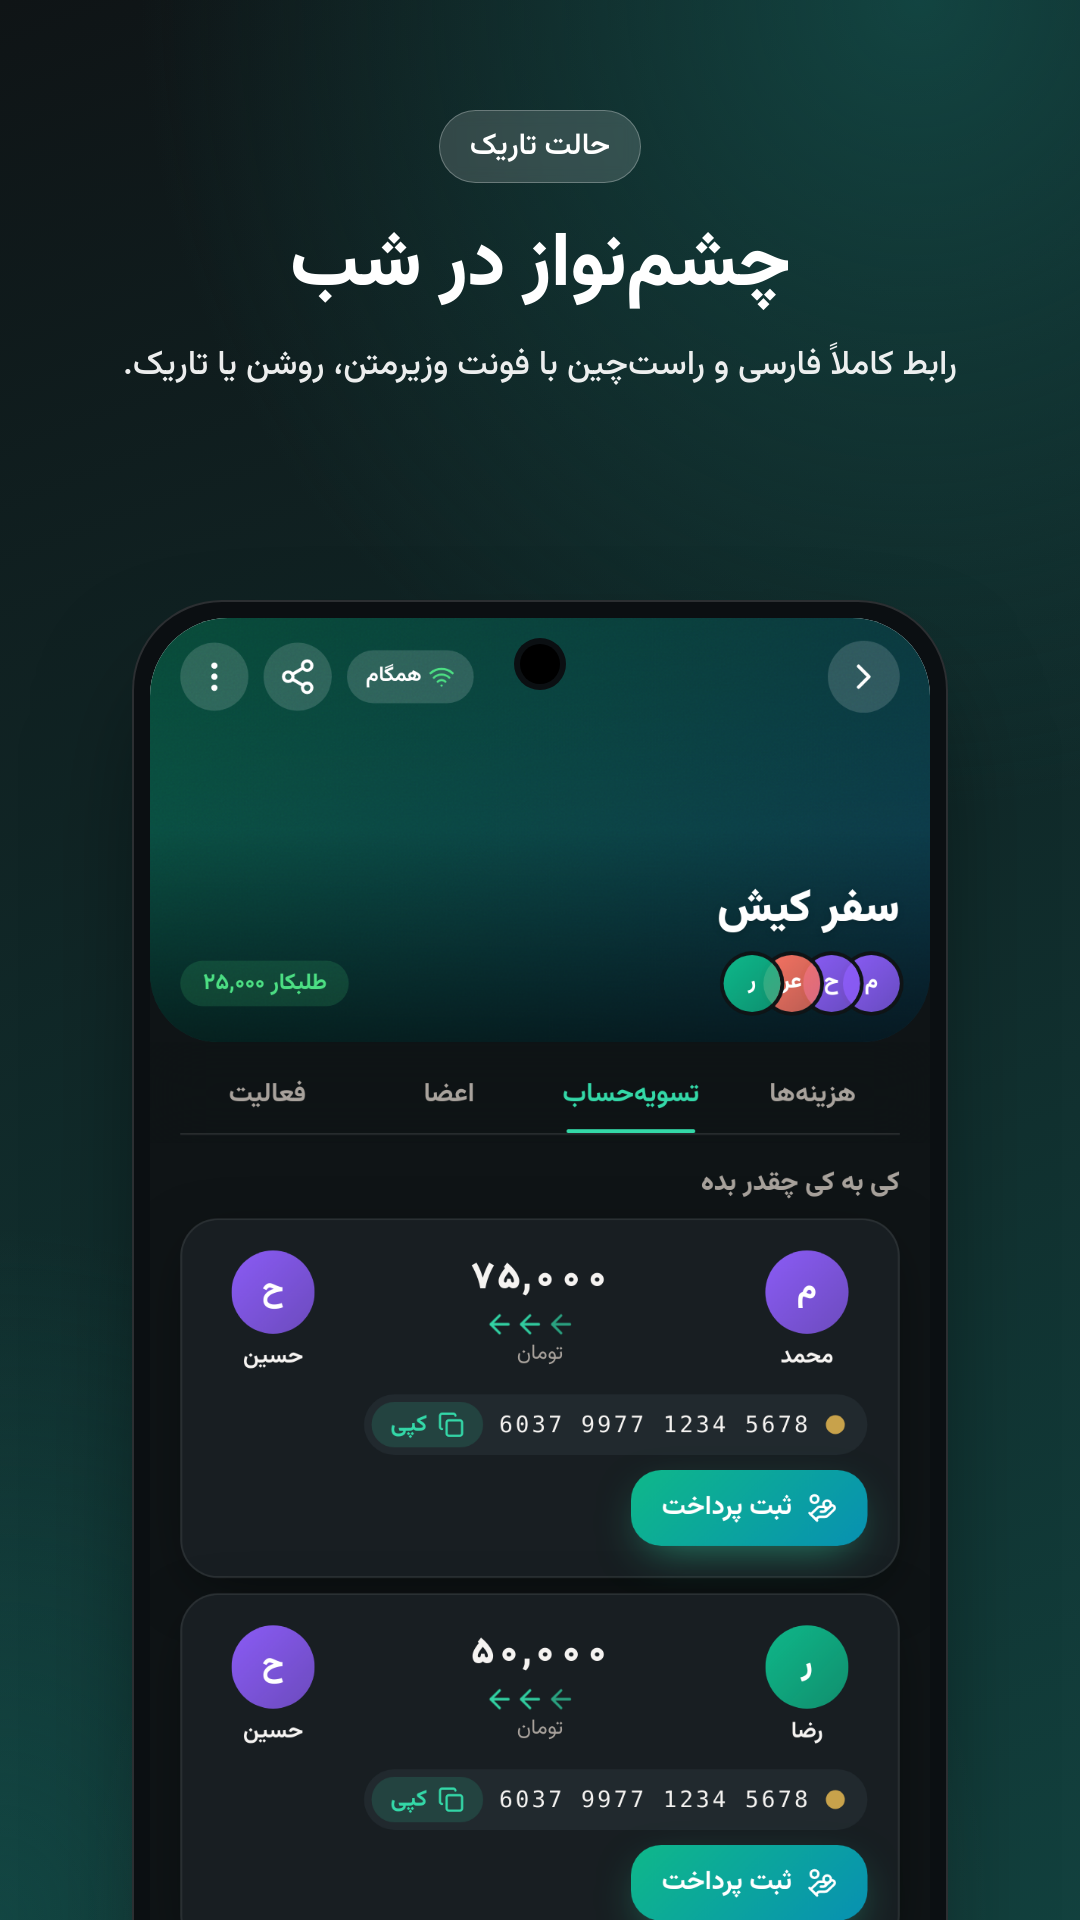
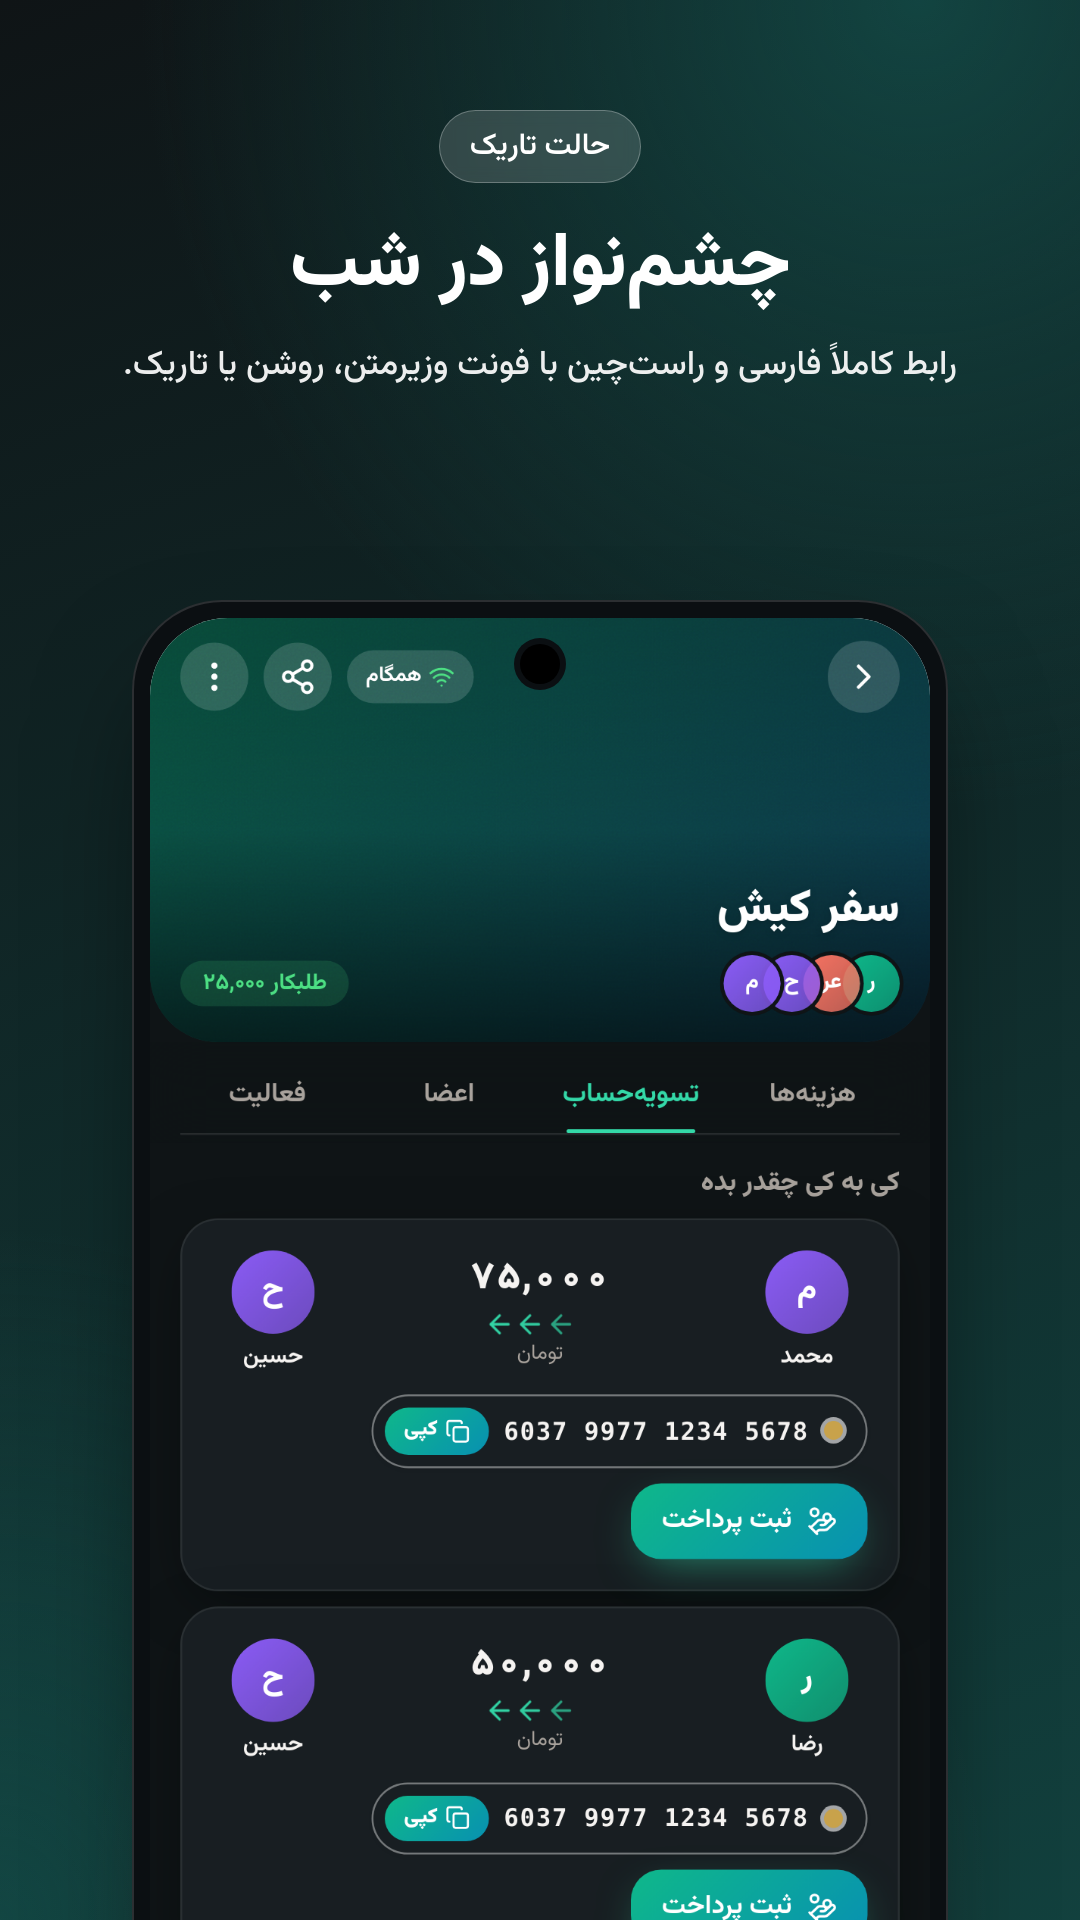
card number copy: whole pill is tappable, high-contrast in light/dark, bank dot + 'کپی' badge, green 'کپی شد' state; used in settle, members, profile

Changed region(s): [[0.3361, 0.7188, 0.825, 1.0], [0.2139, 0.8438, 0.3056, 0.9375], [0.6722, 0.5, 0.8556, 0.5312]]

diff --git a/apps/web/src/features/groups/GroupPage.tsx b/apps/web/src/features/groups/GroupPage.tsx
@@ -5,12 +5,12 @@ import { ChevronRight, Plus, UserPlus, MoreVertical, Receipt, Trash2, Pencil, Lo
 import type { Activity, Expense } from '@dong/core';
 import { computeNetBalances, simplifyDebts, userBalance, formatAmount } from '@dong/core';
 import { useStore } from '@/app/store';
-import { Avatar, AvatarStack, BalanceChip, Empty, Sheet, CopyButton } from '@/design-system/ui';
+import { Avatar, AvatarStack, BalanceChip, Empty, Sheet, CopyCardNumber } from '@/design-system/ui';
 import { ActivityList } from './ActivityList';
 import { SettleTab } from '@/features/settlements/SettleTab';
 import { fmtDate } from '@/lib/date';
 import { shareText, compressImage, haptic } from '@/lib/native';
-import { formatCardNumber } from '@dong/core';
+import { detectBank } from '@dong/core';
 import { Tour } from '@/design-system/Tour';
 import { Wifi, WifiOff, Loader2 } from 'lucide-react';
 
@@ -142,11 +142,10 @@ export function GroupPage() {
                   <Avatar name={m.user.fullName} src={m.user.avatarUrl} size={44} />
                   <div className="flex-1 min-w-0">
                     <p className="font-bold truncate">{m.user.fullName} {m.userId === me.id && <span className="text-xs text-ink-2">(من)</span>} {m.role === 'owner' && <span className="chip bg-amber2/15 text-amber2 mr-1">مالک</span>}</p>
-                    {m.user.cardNumber ? <p className="mono text-[11px] text-ink-2 mt-0.5 whitespace-nowrap" dir="ltr" style={{ letterSpacing: "0.05em" }}>{formatCardNumber(m.user.cardNumber)}</p> : <p className="text-[11px] text-ink-2 mt-0.5">شماره کارت ثبت نشده</p>}
+                    {m.user.cardNumber ? <div className="mt-1.5"><CopyCardNumber number={m.user.cardNumber} bankName={detectBank(m.user.cardNumber)?.name} bankColor={detectBank(m.user.cardNumber)?.color} /></div> : <p className="text-[11px] text-ink-2 mt-0.5">شماره کارت ثبت نشده</p>}
                   </div>
                   <div className="flex flex-col items-end gap-1.5">
                     <BalanceChip value={b} />
-                    {m.user.cardNumber && <CopyButton text={m.user.cardNumber} label="کارت" small />}
                   </div>
                   {isOwner && m.userId !== me.id && (
                     <button onClick={async () => { if (!confirm(`«${m.user.fullName}» از گروه حذف شود؟`)) return; try { await adapter.removeMember(g.group.id, m.userId); toast('حذف شد'); } catch (e) { toast((e as Error).message, 'err'); } }} className="p-2 text-ink-2" aria-label="حذف"><Trash2 size={16} /></button>

diff --git a/apps/web/src/design-system/ui.tsx b/apps/web/src/design-system/ui.tsx
@@ -1,3 +1,4 @@
+import { formatCardNumber } from '@dong/core';
 import { useEffect, useRef, useState, type ReactNode } from 'react';
 import { AnimatePresence, animate, motion, useReducedMotion } from 'framer-motion';
 import { Check, Copy, X, ChevronRight } from 'lucide-react';
@@ -58,6 +59,23 @@ export function BalanceChip({ value }: { value: number }) {
 }
 
 /* ---------- Copy button ---------- */
+/** Whole-pill copy control for card numbers: tap anywhere on it to copy. High contrast in light & dark. */
+export function CopyCardNumber({ number, bankName, bankColor, className = '' }: { number: string; bankName?: string | null; bankColor?: string | null; className?: string }) {
+  const [ok, setOk] = useState(false);
+  const toast = useStore((s) => s.toast);
+  return (
+    <button type="button" aria-label="کپی شماره کارت"
+      onClick={async (e) => { e.stopPropagation(); await copyText(number); haptic('light'); setOk(true); toast('شماره کارت کپی شد ✅', 'ok'); setTimeout(() => setOk(false), 1600); }}
+      className={`group inline-flex items-center gap-2 rounded-full pr-3 pl-1.5 py-1.5 border transition active:scale-[0.98] ${ok ? 'bg-pos text-white border-pos' : 'bg-surface text-ink border-line/40 hover:border-brand/60 shadow-sm'} ${className}`}>
+      {bankColor && !ok && <span className="h-2.5 w-2.5 rounded-full shrink-0 ring-2 ring-white/60" style={{ background: bankColor }} title={bankName ?? ''} />}
+      <span className="mono text-[13px] font-bold tracking-wider" dir="ltr">{formatCardNumber(number)}</span>
+      <span className={`inline-flex items-center gap-1 rounded-full px-2.5 py-1 text-[11px] font-black ${ok ? 'bg-white/20 text-white' : 'text-white'}`} style={ok ? undefined : { background: 'var(--grad-brand)' }}>
+        {ok ? <Check size={13} /> : <Copy size={13} />} {ok ? 'کپی شد' : 'کپی'}
+      </span>
+    </button>
+  );
+}
+
 export function CopyButton({ text, label = 'کپی', small = false }: { text: string; label?: string; small?: boolean }) {
   const [ok, setOk] = useState(false);
   const toast = useStore((s) => s.toast);

diff --git a/apps/web/src/features/settlements/SettleTab.tsx b/apps/web/src/features/settlements/SettleTab.tsx
@@ -4,7 +4,7 @@ import { ArrowLeft, BellRing, Camera, Check, RotateCw, X, Clock, HandCoins } fro
 import type { Balance, Settlement, Transfer } from '@dong/core';
 import { formatAmount, formatCardNumber, parseAmount, detectBank } from '@dong/core';
 import { useStore } from '@/app/store';
-import { Avatar, CopyButton, Empty, Sheet, DrawCheck } from '@/design-system/ui';
+import { Avatar, CopyCardNumber, Empty, Sheet, DrawCheck } from '@/design-system/ui';
 import type { GroupDetail } from '@/data/adapter';
 import { ding, compressImage, haptic, notify, rotateDataUrl } from '@/lib/native';
 import { fmtDateTime } from '@/lib/date';
@@ -91,11 +91,7 @@ export function SettleTab({ g, balances, transfers }: { g: GroupDetail; balances
                   </div>
                   <div className="mt-3 flex items-center gap-2 flex-wrap">
                     {cred?.cardNumber ? (
-                      <div className="flex items-center gap-2 bg-surface-2 rounded-full pr-3 pl-1 py-1">
-                        {bank && <span className="h-2.5 w-2.5 rounded-full" style={{ background: bank.color }} title={bank.name} />}
-                        <span className="mono text-xs">{formatCardNumber(cred.cardNumber)}</span>
-                        <CopyButton text={cred.cardNumber} label="کپی" small />
-                      </div>
+                      <CopyCardNumber number={cred.cardNumber} bankName={bank?.name} bankColor={bank?.color} />
                     ) : <span className="text-[11px] text-ink-2">شماره کارت ثبت نشده — از طریق پیام هماهنگ کنید</span>}
                     <span className="flex-1" />
                     {(iOwe || member(t.from)?.username.startsWith('local_') || member(t.from)?.username.startsWith('demo_')) && (

diff --git a/apps/web/src/features/profile/ProfilePage.tsx b/apps/web/src/features/profile/ProfilePage.tsx
@@ -4,7 +4,7 @@ import { Camera, LogOut, Moon, Sun, Monitor, Volume2, VolumeX, KeyRound, CreditC
 import { Capacitor } from '@capacitor/core';
 import { formatCardNumber, isValidCardNumber, detectBank, normalizeCardNumber, formatAmount } from '@dong/core';
 import { useStore, type Theme } from '@/app/store';
-import { Avatar, CopyButton, Field, PageHeader, Sheet } from '@/design-system/ui';
+import { Avatar, CopyCardNumber, Field, PageHeader, Sheet } from '@/design-system/ui';
 import { Mascot } from '@/design-system/Mascot';
 import { compressImage, haptic } from '@/lib/native';
 import { Tour } from '@/design-system/Tour';
@@ -74,7 +74,7 @@ export function ProfilePage() {
           ) : <p className="text-center font-bold opacity-90">شماره کارتت رو ثبت کن تا بقیه راحتتر بهت واریز کنن</p>}
           <div className="flex items-end justify-between">
             <span className="font-bold text-sm">{me.cardHolderName || me.fullName}</span>
-            {me.cardNumber && <span onClick={(e) => e.stopPropagation()}><CopyButton text={me.cardNumber} label="کپی شماره" /></span>}
+            {me.cardNumber && <span onClick={(e) => e.stopPropagation()}><CopyCardNumber number={me.cardNumber} /></span>}
           </div>
           <span className="absolute -right-10 -top-10 h-40 w-40 rounded-full bg-white/10" /><span className="absolute -left-6 -bottom-12 h-32 w-32 rounded-full bg-black/10" />
         </button>
